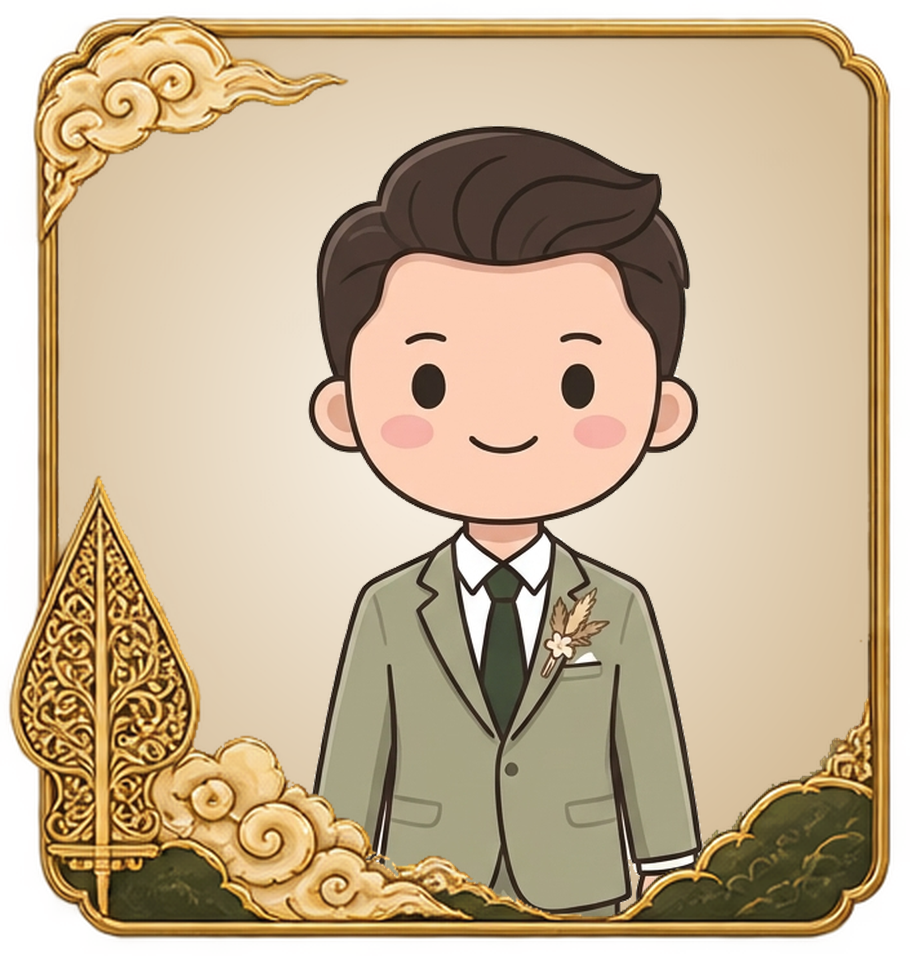
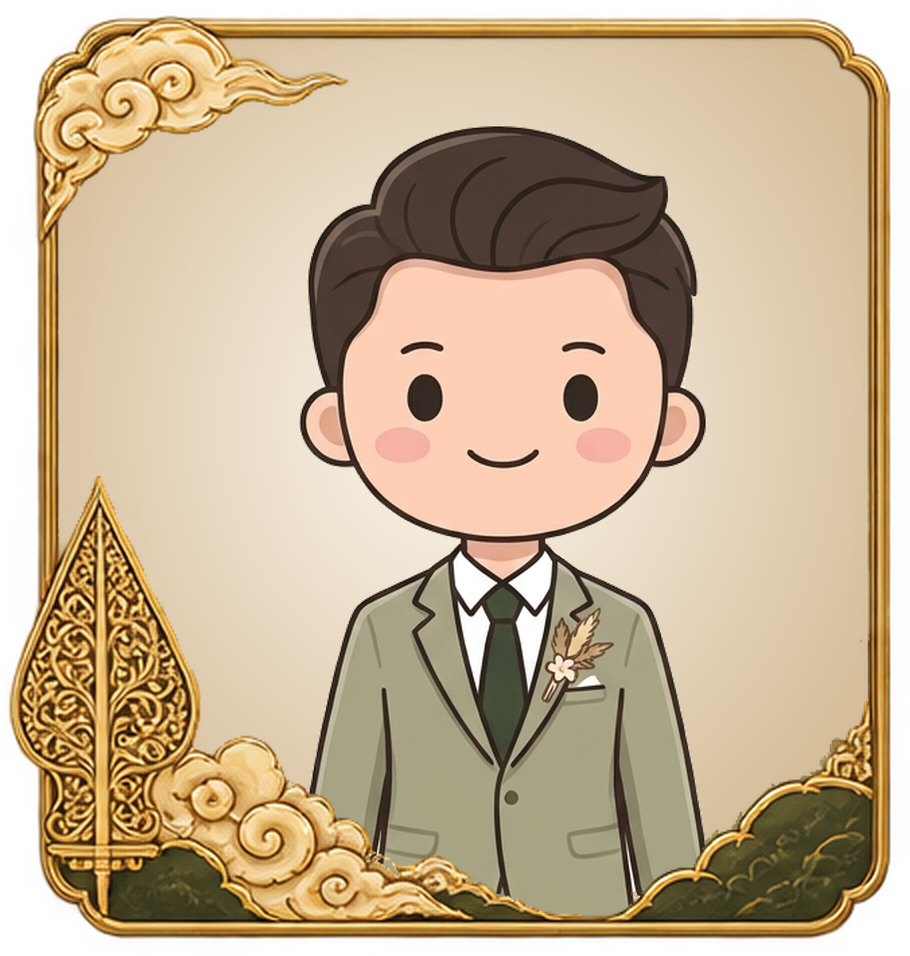
style(undangan_tf_17): use borderless couple illustration on gate and footer

Changed region(s): [[0.3077, 0.182, 0.8, 0.9707], [0.5538, 0.182, 0.6154, 0.2123], [0.4308, 0.1517, 0.4615, 0.182]]

diff --git a/undangan_tf_17/index.html b/undangan_tf_17/index.html
@@ -182,11 +182,14 @@
         <div
           class="w-full max-w-[330px] mx-auto my-auto flex flex-col items-center pointer-events-auto relative z-20 py-4 px-3 rounded-[32px] bg-[radial-gradient(ellipse_at_center,rgba(248,239,232,0.88)_40%,rgba(239,224,204,0.42)_74%,transparent_100%)]">
 
-          <!-- Rustic Javanese Couple Portrait (bingkai_3 + Sage Olive Suit & Ivory Gown) -->
+          <!-- Direct Borderless Chibi Couple Illustration (Matches Clean Style Without Frame) -->
           <div
-            class="relative w-[156px] sm:w-[176px] aspect-[910/956] mx-auto mb-1.5 flex items-center justify-center gate-anim-frame-photo">
-            <img src="asset/img/mempelai/mempelai_berbingkai.png" alt="Mempelai Raka &amp; Sinta"
-              class="w-full h-full object-contain pointer-events-none drop-shadow-[0_10px_24px_rgba(58,56,35,0.26)]"
+            class="relative w-[178px] sm:w-[198px] aspect-square mx-auto mb-1.5 flex items-center justify-center gate-anim-frame-photo">
+            <div
+              class="absolute inset-1 rounded-full bg-[radial-gradient(ellipse_at_center,rgba(248,239,232,0.88)_0%,rgba(228,210,186,0.34)_52%,transparent_78%)] pointer-events-none"
+              aria-hidden="true"></div>
+            <img src="asset/img/mempelai/kartun_couple.png" alt="Ilustrasi Mempelai Raka &amp; Sinta"
+              class="relative z-10 w-full h-full object-contain pointer-events-none drop-shadow-[0_8px_18px_rgba(58,56,35,0.22)]"
               decoding="async">
           </div>
 
@@ -1325,18 +1328,22 @@
 
       <div class="max-w-[390px] mx-auto relative z-20">
 
-        <!-- Royal Framed Portrait + Flanking Rustic Clouds -->
+        <!-- Direct Borderless Chibi Couple Illustration (Matches Gate Style Without Frame) + Flanking Rustic Clouds -->
         <div class="relative w-full mb-5 flex items-center justify-center">
-          <div class="w-16 sm:w-20 -mr-2 pointer-events-none select-none reveal-left delay-150" aria-hidden="true">
+          <div class="w-16 sm:w-20 -mr-1 pointer-events-none select-none reveal-left delay-150" aria-hidden="true">
             <img src="asset/img/ornamen/awan_2.png" alt="Awan Kiri" class="w-full h-auto opacity-80 cloud-float-slow"
               decoding="async" loading="lazy">
           </div>
-          <div class="relative w-[195px] sm:w-[215px] mx-auto reveal-scale z-10">
-            <img src="asset/img/mempelai/footer_mempelai_berbingkai.png" alt="Mempelai Raka &amp; Sinta Berbingkai"
-              class="w-full h-auto drop-shadow-[0_12px_28px_rgba(58,56,35,0.26)] pointer-events-none" decoding="async"
-              loading="lazy">
+          <div
+            class="relative w-[190px] sm:w-[210px] aspect-square mx-auto flex items-center justify-center reveal-scale z-10">
+            <div
+              class="absolute inset-1 rounded-full bg-[radial-gradient(ellipse_at_center,rgba(248,239,232,0.88)_0%,rgba(228,210,186,0.34)_52%,transparent_78%)] pointer-events-none"
+              aria-hidden="true"></div>
+            <img src="asset/img/mempelai/kartun_couple.png" alt="Ilustrasi Mempelai Raka &amp; Sinta"
+              class="relative z-10 w-full h-full object-contain pointer-events-none drop-shadow-[0_8px_18px_rgba(58,56,35,0.22)]"
+              decoding="async" loading="lazy">
           </div>
-          <div class="w-16 sm:w-20 -ml-2 pointer-events-none select-none reveal-right delay-150" aria-hidden="true">
+          <div class="w-16 sm:w-20 -ml-1 pointer-events-none select-none reveal-right delay-150" aria-hidden="true">
             <img src="asset/img/ornamen/awan_2.png" alt="Awan Kanan"
               class="w-full h-auto scale-x-[-1] opacity-80 cloud-float-slow" decoding="async" loading="lazy">
           </div>
